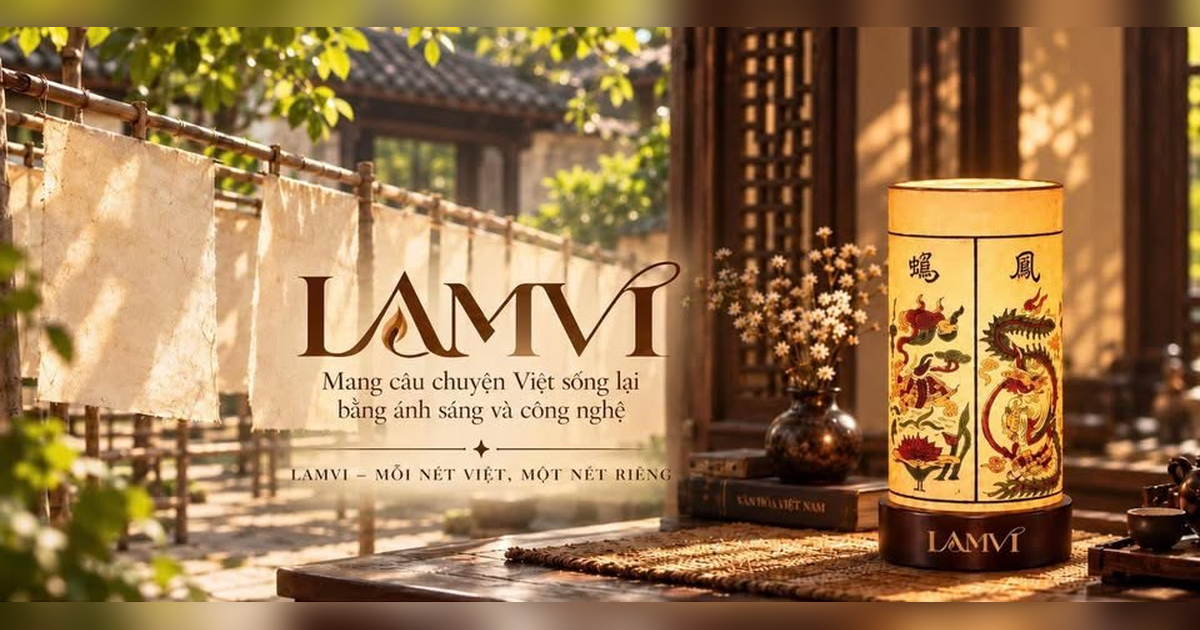
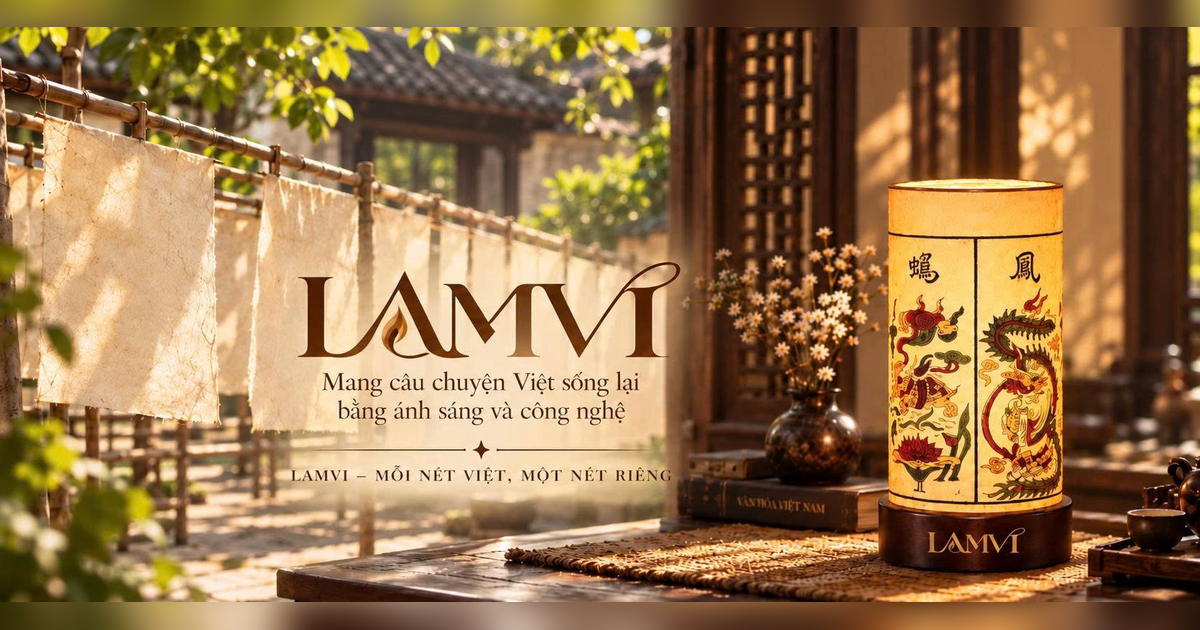
feat: ảnh bìa full HD 1672x800 cho mục Di sản và ảnh chia sẻ (G-116)

diff --git a/server/fanpagePhotos.independent.test.js b/server/fanpagePhotos.independent.test.js
@@ -72,7 +72,7 @@ describe('API với danh mục thật', () => {
 describe('Tệp ảnh', () => {
   it('kích thước đúng, tên tệp không chứa "lamvi"', () => {
     for (const d of ['lamps', 'brand', 'og']) for (const f of readdirSync(join(pub, 'images', d))) expect(f.toLowerCase(), f).not.toContain('lamvi')
-    expect(jpegSize(join(pub, 'images/brand/cover-960x460.jpg'))).toEqual({ w: 960, h: 460 })
+    expect(jpegSize(join(pub, 'images/brand/cover-1672x800.jpg'))).toEqual({ w: 1672, h: 800 })
     expect(jpegSize(join(pub, 'images/brand/logo-round-200.jpg'))).toEqual({ w: 200, h: 200 })
     const og = PNG.sync.read(readFileSync(join(pub, 'images/og/default.png')))
     expect([og.width, og.height]).toEqual([1200, 630])

diff --git a/src/pages/HomePage.jsx b/src/pages/HomePage.jsx
@@ -390,7 +390,7 @@ export default function HomePage() {
         </m.div>
         {/* Ảnh bìa fanpage chính thức (đã cắt bỏ dải thông tin liên hệ chưa xác nhận — G-115) */}
         <m.figure className="story-cover" variants={rise}>
-          <img src="/images/brand/cover-960x460.jpg" alt={t('story.coverAlt')} width={960} height={460} loading="lazy" decoding="async" />
+          <img src="/images/brand/cover-1672x800.jpg" alt={t('story.coverAlt')} width={1672} height={800} loading="lazy" decoding="async" />
         </m.figure>
         <FolkGallery />
       </Reveal>

diff --git a/scripts/gen_og_from_cover.py b/scripts/gen_og_from_cover.py
@@ -1,11 +1,11 @@
 """Dựng ảnh chia sẻ mặc định 1200×630 từ ảnh bìa fanpage chính thức (G-116).
-Chạy: npm run gen:og  (cần python3 + Pillow). Ảnh bìa đã cắt bỏ dải thông tin liên hệ chưa xác nhận (G-115).
+Chạy: npm run gen:og  (cần python3 + Pillow). Ảnh bìa full HD (cover-1672x800.jpg) đã cắt bỏ dải thông tin liên hệ in sẵn (email lệch D-110).
 """
 from pathlib import Path
 from PIL import Image, ImageFilter
 
 root = Path(__file__).resolve().parent.parent
-cover = Image.open(root / "public/images/brand/cover-960x460.jpg").convert("RGB")
+cover = Image.open(root / "public/images/brand/cover-1672x800.jpg").convert("RGB")
 bg = cover.resize((1200, 630), Image.LANCZOS).filter(ImageFilter.GaussianBlur(18))
 fg = cover.resize((1200, 575), Image.LANCZOS)
 bg.paste(fg, (0, (630 - 575) // 2))

diff --git a/docs/ba-spec.md b/docs/ba-spec.md
@@ -2,10 +2,10 @@
 
 | Mục | Giá trị |
 |---|---|
-| Phiên bản | v0.52 (bản nháp) |
+| Phiên bản | v0.53 (bản nháp) |
 | Ngày | 2026-10-20 |
 | Trạng thái | PO đã duyệt toàn bộ `[PROPOSAL]`/`[ASSUMPTION]` của v0.1 (D-41) và toàn bộ P0 còn lại ở v0.19 (D-68…D-77). Còn chờ PO: P1/P2 ở §30 và `[LEGAL]` Q-36 (ảnh tư liệu), I-15 (xoá lịch sử chat); giả định phát sinh gắn `[ASSUMPTION]` |
-| Lịch sử | v0.2 (nhánh `fix/web-copy-ba-spec`): sửa câu chữ web theo §31.3, đợt 1. v0.2 (nhánh `feat/foundation-web`): D-37…D-44, nền tảng (catalog, FAQ, i18n, tài khoản, trang QR lô). v0.3: gộp hai nhánh v0.2, D-45…D-48, admin sản phẩm/FAQ/lô. v0.4: D-49, D-50, SEO (SSR, hreflang, sitemap, JSON-LD). v0.5: D-51…D-54, vai trò IT + dashboard IT (sức khoẻ, số liệu API, bảo trì). v0.6: D-55…D-58, AI Mây (chat, FAQ offline, tour, cấu hình). v0.7: D-59…D-61, giỏ hàng. v0.8: gộp nhánh `feat/folk-art-redesign` (giao diện dân gian cổ + motion, bảng màu, phòng tranh ảnh tư liệu — Q-36 `[LEGAL]`, design rules — §31.4) và `docs/branding-guideline` vào `master`. v0.9: deploy Vercel (T-33), G-35, G-36. v0.10: D-62 — tên web và thương hiệu là LAMVI (nhánh `feat/brand-lamvi`). v0.11: D-63 — bỏ xác nhận email khi đăng ký; G-37…G-39 (nhánh `feat/signup-no-confirm`). v0.12: D-64 — dashboard tài khoản khách dạng tab dọc, phong cách thanh thoát (T-34) (nhánh `feat/account-dashboard`), G-40. v0.13: dashboard bo góc + minh hoạ; tab đơn hàng minh hoạ 4 công đoạn. v0.14: D-65 — dashboard kính mờ, nền mây khói + đèn trời khi vào trang, giao diện tối (nhánh `feat/account-glass`). v0.15: nền dashboard dùng ảnh thật CC0 thay hình tự vẽ. v0.16: D-66 — ảnh nền thật cho trang chủ và các trang công khai; dashboard mobile có thanh điều hướng đáy. v0.17: D-67 — PO duyệt I-14, OpenAI của Mây mặc định bật (nhánh `feat/may-openai-default`). v0.18: câu trả lời Mây là văn bản thuần, không link/URL; G-41 (nhánh `fix/may-links`). v0.19 (nhánh `feat/production-checkout-seo-ga`): PO chốt toàn bộ P0 còn lại → D-68…D-77. Giá niêm yết đã gồm VAT (D-68, thay D-03/D-50); checkout → thanh toán payOS/COD → đơn hàng → huỷ đơn (D-69, D-70, D-73, D-74, D-76); coupon đầy đủ (D-71); Google Analytics 4 không banner cookie (D-72); ảnh sản phẩm trong admin (D-77); SEO mức production (og:image, Organization/WebSite/Breadcrumb, cache CDN); security headers (T-37), chống dò/spam (T-38, G-20), G-18, G-28; admin đơn hàng và coupon. Khoảng trống mới: G-42…G-47. v0.20 (nhánh `feat/admin-ga-realtime`): báo cáo Google Analytics realtime trong admin (`/admin/analytics`), `[ASSUMPTION]` §23.3, G-50. v0.21 (nhánh `feat/auth-redesign-google`): D-78 — thêm đăng nhập/đăng ký bằng Google (OAuth trực tiếp, không dùng provider Google của Supabase); làm lại bố cục đăng nhập/đăng ký/quên/đặt lại mật khẩu; nút đăng xuất ở thanh điều hướng; G-51. v0.22 (nhánh `feat/ui-glass-transitions`): D-79 — bo góc toàn bộ component, kính mờ (glassmorphism) cho thẻ, hiệu ứng chuyển trang (T-45). v0.23 (nhánh `feat/header-glass-backgrounds`): D-80 — header kính mờ, header/footer riêng cho trang auth, nền auth trơn có quầng màu, ảnh phong cảnh phủ mảng navy (T-46). v0.24 (nhánh `feat/auth-photo`): D-81 — ảnh riêng cho trang auth (đèn lụa phản chiếu trên sông, Hội An), không dùng ảnh của landing. v0.25 (nhánh `feat/auth-redesign-v2`): D-82 — thiết kế lại trang auth: sân khấu ảnh toàn màn hình + thẻ kính, viên thuốc chuyển đăng nhập ↔ đăng ký, nút hiện/ẩn mật khẩu. v0.26 (nhánh `feat/cart-collection-may-dashboard`): D-83, D-84 — giỏ hàng thiết kế lại, bộ sưu tập một mạch (bỏ hai tab), huy hiệu + tooltip giỏ hàng trên navbar, dashboard và khung chat Mây thiết kế lại (T-48) v0.27: auth chuẩn production không cần Supabase Pro/Twilio — thư đặt lại mật khẩu do server gửi (Resend/Brevo), refresh token ở cookie HttpOnly, chặn mật khẩu đã lộ; G-17 xử lý, G-52…G-54, Q-39 (nhánh `feat/auth-production`). v0.28: D-85 — giữ D-63, không xác minh email khi đăng ký (chốt Q-39); G-37 là rủi ro được chấp nhận (nhánh `docs/q39-keep-d63`).. v0.29 (nhánh `feat/shop-navbar`): D-86 — trang Cửa hàng `/shop` riêng, mọi nút "xem đèn" dẫn tới đó, nút "Xem thêm" ở bộ sưu tập; thanh điều hướng luôn ghim đầu trang và thu nhỏ 20% dạng viên thuốc khi cuộn (T-52). v0.30 (nhánh `feat/product-detail-v2`): D-87 — trang chi tiết sản phẩm thiết kế lại theo phong cách Cửa hàng (T-53). v0.31 (nhánh `feat/gift-message-admin-users`): D-88…D-90 — lời chúc (chữ, giọng nói, video) và trang QR lời chúc (G-42), quản lý người dùng trong admin gồm khoá/mở khoá và đổi vai trò (G-19), dashboard IT kiểm tra thật Resend (T-54); G-55…G-64. v0.32 (nhánh `docs/glass-auth-header-footer`): header/footer trang auth kính mờ phủ ảnh sân khấu (thuộc D-80, T-55); không có quyết định nghiệp vụ mới. v0.33 (nhánh `feat/order-notifications`): D-91…D-94 — thông báo đơn hàng qua email Resend kèm banner/bố cục thư (Q-24, G-45), quy tắc mật khẩu cơ bản + ô nhập lại mật khẩu mới, "quên mật khẩu" chỉ cho email đã đăng ký, admin/IT đăng nhập vào thẳng `/admin`; G-65…G-67. v0.34 (nhánh `feat/mail-business-footer`): D-95 — thư giao dịch nâng cấp bố cục và chân thư doanh nghiệp chuẩn mực (T-56); G-68 v0.35 (nhánh `feat/may-orders-policy-audit`): D-96…D-98 — bộ sưu tập đèn (đèn lẻ trong bộ mua riêng được), gallery đèn + chăn Đông Hồ có mảnh ghép và phần thưởng cốt truyện, chính sách đổi trả (7 ngày từ DELIVERED); Mây tra đơn (FR-AI-004, G-29), trang Chính sách riêng tư và đổi trả (G-10), audit log cho sản phẩm/FAQ/lô (G-21), rollback đăng ký (G-38), nhật ký bảo trì (G-27); G-69…G-76 v0.36 (nhánh `feat/address-inventory`): D-99, D-100 — địa chỉ giao hàng chọn từ danh mục hành chính 2 cấp mới (tỉnh/thành → phường/xã, G-46), tồn kho theo số lượng từng sản phẩm (chốt Q-07, G-44); G-78…G-83 v0.40 (nhánh `feat/feedback-2026-10-08`): xử lý feedback kiểm thử 08/10 — chống sập (app dự phòng, trang lỗi thương hiệu, tệp tĩnh qua CDN), menu di động, trang Liên hệ, thông tin pháp lý + trang `/terms` `/shipping` `/payment`, chú thích đăng nhập từ checkout; D-101; G-94…G-99; Q-41, Q-42 v0.41 (nhánh `fix/feedback-2026-10-08`): xử lý tiếp feedback kiểm thử 08/10 — lỗi thiếu schema trả 503 + gộp giỏ giữ giỏ local, banner đồng ý cookie + GA Consent Mode v2 (D-102, thay D-72), ẩn payOS khi chưa cấu hình + trạng thái tổng "cần xử lý", thông số sản phẩm, phí ship công khai, thanh mua/đặt hàng cố định mobile, bỏ tour tự bật + gỡ đánh giá chưa xác thực + nội dung hiển thị sẵn (D-103), cache/region/LCP/font, khoá slug + không xoá sản phẩm đã có đơn; D-102, D-103; G-100…G-107; Q-43 v0.42 (nhánh `feat/sync-real-content`): đồng bộ web với tài liệu nhóm (Content Plan, báo cáo đồ án, nội dung tranh Đông Hồ) — D-104: danh mục thật 5 đèn của bộ sưu tập đầu tiên (giá tạm 1.400.000 đ `[ASSUMPTION]`), QR chỉ ở thiệp cảm ơn không khắc trên đèn (thay D-43 một phần), nghệ nhân/quy trình/lookbook/FAQ theo tài liệu nhóm, gỡ số liệu mẫu; bỏ Q-05 (không còn bộ set); G-108…G-114 v0.43 (nhánh `feat/lamp-story-pages`): trang kể chuyện theo từng mẫu đèn (G-108, D-105) — cột `products.story`, tab "Câu chuyện", trang lời chúc hiện câu chuyện trước lời chúc; ảnh/thông tin từ fanpage chính thức (logo làm favicon thay logo Vite; G-115, G-116) v0.52 (nhánh `docs/contact-info-d111`): D-111 — PO xác nhận thông tin liên hệ in trên banner; G-115 xử lý một phần. v0.51 (nhánh `feat/may-mascot`): mascot Mây (7 tư thế) thay hình mây SVG; G-117. v0.50 (nhánh `feat/logo-vector`): logotype vector chuẩn thay logo tròn ở thanh điều hướng (G-116); không có quyết định nghiệp vụ mới. v0.49 (nhánh `feat/price-contact-email`): D-110 — giá 1.499.000 đ, email lamvi6886@gmail.com; G-109 xong, G-115 một phần. v0.48 (nhánh `feat/returns-retention`): D-109 — chốt video đổi trả tối đa 50 MB, lưu 90 ngày sau khi xử lý xong, tự xoá bằng cron (migration `…0023`). v0.47 (nhánh `feat/returns-maintenance-authmenu`): menu di động riêng cho header đăng nhập/đăng ký, giao diện nhật ký bảo trì `/it` (G-27 xong); không có quyết định nghiệp vụ mới. v0.46 (nhánh `feat/collection-page-redesign`): D-108 — thiết kế lại trang bộ sưu tập. v0.45 (nhánh `feat/lamp-cutouts-no-captions`): D-107 — bỏ chú thích nguồn ảnh fanpage; tách nền ảnh đèn / ảnh phủ khung. v0.44 (nhánh `feat/protected-routes-fanpage-images`): D-106 — bảo vệ route phía client (`ProtectedRoute`/`GuestRoute`, §5.2b); đưa ảnh fanpage vào web — logo chính thức thay con dấu chữ, ảnh 5 đèn làm ảnh mặc định, ảnh bìa ở mục Di sản và ảnh chia sẻ (G-116) |
+| Lịch sử | v0.2 (nhánh `fix/web-copy-ba-spec`): sửa câu chữ web theo §31.3, đợt 1. v0.2 (nhánh `feat/foundation-web`): D-37…D-44, nền tảng (catalog, FAQ, i18n, tài khoản, trang QR lô). v0.3: gộp hai nhánh v0.2, D-45…D-48, admin sản phẩm/FAQ/lô. v0.4: D-49, D-50, SEO (SSR, hreflang, sitemap, JSON-LD). v0.5: D-51…D-54, vai trò IT + dashboard IT (sức khoẻ, số liệu API, bảo trì). v0.6: D-55…D-58, AI Mây (chat, FAQ offline, tour, cấu hình). v0.7: D-59…D-61, giỏ hàng. v0.8: gộp nhánh `feat/folk-art-redesign` (giao diện dân gian cổ + motion, bảng màu, phòng tranh ảnh tư liệu — Q-36 `[LEGAL]`, design rules — §31.4) và `docs/branding-guideline` vào `master`. v0.9: deploy Vercel (T-33), G-35, G-36. v0.10: D-62 — tên web và thương hiệu là LAMVI (nhánh `feat/brand-lamvi`). v0.11: D-63 — bỏ xác nhận email khi đăng ký; G-37…G-39 (nhánh `feat/signup-no-confirm`). v0.12: D-64 — dashboard tài khoản khách dạng tab dọc, phong cách thanh thoát (T-34) (nhánh `feat/account-dashboard`), G-40. v0.13: dashboard bo góc + minh hoạ; tab đơn hàng minh hoạ 4 công đoạn. v0.14: D-65 — dashboard kính mờ, nền mây khói + đèn trời khi vào trang, giao diện tối (nhánh `feat/account-glass`). v0.15: nền dashboard dùng ảnh thật CC0 thay hình tự vẽ. v0.16: D-66 — ảnh nền thật cho trang chủ và các trang công khai; dashboard mobile có thanh điều hướng đáy. v0.17: D-67 — PO duyệt I-14, OpenAI của Mây mặc định bật (nhánh `feat/may-openai-default`). v0.18: câu trả lời Mây là văn bản thuần, không link/URL; G-41 (nhánh `fix/may-links`). v0.19 (nhánh `feat/production-checkout-seo-ga`): PO chốt toàn bộ P0 còn lại → D-68…D-77. Giá niêm yết đã gồm VAT (D-68, thay D-03/D-50); checkout → thanh toán payOS/COD → đơn hàng → huỷ đơn (D-69, D-70, D-73, D-74, D-76); coupon đầy đủ (D-71); Google Analytics 4 không banner cookie (D-72); ảnh sản phẩm trong admin (D-77); SEO mức production (og:image, Organization/WebSite/Breadcrumb, cache CDN); security headers (T-37), chống dò/spam (T-38, G-20), G-18, G-28; admin đơn hàng và coupon. Khoảng trống mới: G-42…G-47. v0.20 (nhánh `feat/admin-ga-realtime`): báo cáo Google Analytics realtime trong admin (`/admin/analytics`), `[ASSUMPTION]` §23.3, G-50. v0.21 (nhánh `feat/auth-redesign-google`): D-78 — thêm đăng nhập/đăng ký bằng Google (OAuth trực tiếp, không dùng provider Google của Supabase); làm lại bố cục đăng nhập/đăng ký/quên/đặt lại mật khẩu; nút đăng xuất ở thanh điều hướng; G-51. v0.22 (nhánh `feat/ui-glass-transitions`): D-79 — bo góc toàn bộ component, kính mờ (glassmorphism) cho thẻ, hiệu ứng chuyển trang (T-45). v0.23 (nhánh `feat/header-glass-backgrounds`): D-80 — header kính mờ, header/footer riêng cho trang auth, nền auth trơn có quầng màu, ảnh phong cảnh phủ mảng navy (T-46). v0.24 (nhánh `feat/auth-photo`): D-81 — ảnh riêng cho trang auth (đèn lụa phản chiếu trên sông, Hội An), không dùng ảnh của landing. v0.25 (nhánh `feat/auth-redesign-v2`): D-82 — thiết kế lại trang auth: sân khấu ảnh toàn màn hình + thẻ kính, viên thuốc chuyển đăng nhập ↔ đăng ký, nút hiện/ẩn mật khẩu. v0.26 (nhánh `feat/cart-collection-may-dashboard`): D-83, D-84 — giỏ hàng thiết kế lại, bộ sưu tập một mạch (bỏ hai tab), huy hiệu + tooltip giỏ hàng trên navbar, dashboard và khung chat Mây thiết kế lại (T-48) v0.27: auth chuẩn production không cần Supabase Pro/Twilio — thư đặt lại mật khẩu do server gửi (Resend/Brevo), refresh token ở cookie HttpOnly, chặn mật khẩu đã lộ; G-17 xử lý, G-52…G-54, Q-39 (nhánh `feat/auth-production`). v0.28: D-85 — giữ D-63, không xác minh email khi đăng ký (chốt Q-39); G-37 là rủi ro được chấp nhận (nhánh `docs/q39-keep-d63`).. v0.29 (nhánh `feat/shop-navbar`): D-86 — trang Cửa hàng `/shop` riêng, mọi nút "xem đèn" dẫn tới đó, nút "Xem thêm" ở bộ sưu tập; thanh điều hướng luôn ghim đầu trang và thu nhỏ 20% dạng viên thuốc khi cuộn (T-52). v0.30 (nhánh `feat/product-detail-v2`): D-87 — trang chi tiết sản phẩm thiết kế lại theo phong cách Cửa hàng (T-53). v0.31 (nhánh `feat/gift-message-admin-users`): D-88…D-90 — lời chúc (chữ, giọng nói, video) và trang QR lời chúc (G-42), quản lý người dùng trong admin gồm khoá/mở khoá và đổi vai trò (G-19), dashboard IT kiểm tra thật Resend (T-54); G-55…G-64. v0.32 (nhánh `docs/glass-auth-header-footer`): header/footer trang auth kính mờ phủ ảnh sân khấu (thuộc D-80, T-55); không có quyết định nghiệp vụ mới. v0.33 (nhánh `feat/order-notifications`): D-91…D-94 — thông báo đơn hàng qua email Resend kèm banner/bố cục thư (Q-24, G-45), quy tắc mật khẩu cơ bản + ô nhập lại mật khẩu mới, "quên mật khẩu" chỉ cho email đã đăng ký, admin/IT đăng nhập vào thẳng `/admin`; G-65…G-67. v0.34 (nhánh `feat/mail-business-footer`): D-95 — thư giao dịch nâng cấp bố cục và chân thư doanh nghiệp chuẩn mực (T-56); G-68 v0.35 (nhánh `feat/may-orders-policy-audit`): D-96…D-98 — bộ sưu tập đèn (đèn lẻ trong bộ mua riêng được), gallery đèn + chăn Đông Hồ có mảnh ghép và phần thưởng cốt truyện, chính sách đổi trả (7 ngày từ DELIVERED); Mây tra đơn (FR-AI-004, G-29), trang Chính sách riêng tư và đổi trả (G-10), audit log cho sản phẩm/FAQ/lô (G-21), rollback đăng ký (G-38), nhật ký bảo trì (G-27); G-69…G-76 v0.36 (nhánh `feat/address-inventory`): D-99, D-100 — địa chỉ giao hàng chọn từ danh mục hành chính 2 cấp mới (tỉnh/thành → phường/xã, G-46), tồn kho theo số lượng từng sản phẩm (chốt Q-07, G-44); G-78…G-83 v0.40 (nhánh `feat/feedback-2026-10-08`): xử lý feedback kiểm thử 08/10 — chống sập (app dự phòng, trang lỗi thương hiệu, tệp tĩnh qua CDN), menu di động, trang Liên hệ, thông tin pháp lý + trang `/terms` `/shipping` `/payment`, chú thích đăng nhập từ checkout; D-101; G-94…G-99; Q-41, Q-42 v0.41 (nhánh `fix/feedback-2026-10-08`): xử lý tiếp feedback kiểm thử 08/10 — lỗi thiếu schema trả 503 + gộp giỏ giữ giỏ local, banner đồng ý cookie + GA Consent Mode v2 (D-102, thay D-72), ẩn payOS khi chưa cấu hình + trạng thái tổng "cần xử lý", thông số sản phẩm, phí ship công khai, thanh mua/đặt hàng cố định mobile, bỏ tour tự bật + gỡ đánh giá chưa xác thực + nội dung hiển thị sẵn (D-103), cache/region/LCP/font, khoá slug + không xoá sản phẩm đã có đơn; D-102, D-103; G-100…G-107; Q-43 v0.42 (nhánh `feat/sync-real-content`): đồng bộ web với tài liệu nhóm (Content Plan, báo cáo đồ án, nội dung tranh Đông Hồ) — D-104: danh mục thật 5 đèn của bộ sưu tập đầu tiên (giá tạm 1.400.000 đ `[ASSUMPTION]`), QR chỉ ở thiệp cảm ơn không khắc trên đèn (thay D-43 một phần), nghệ nhân/quy trình/lookbook/FAQ theo tài liệu nhóm, gỡ số liệu mẫu; bỏ Q-05 (không còn bộ set); G-108…G-114 v0.43 (nhánh `feat/lamp-story-pages`): trang kể chuyện theo từng mẫu đèn (G-108, D-105) — cột `products.story`, tab "Câu chuyện", trang lời chúc hiện câu chuyện trước lời chúc; ảnh/thông tin từ fanpage chính thức (logo làm favicon thay logo Vite; G-115, G-116) v0.53 (nhánh `feat/cover-fullhd`): ảnh bìa full HD 1672×800 thay bản 960 px (G-116). v0.52 (nhánh `docs/contact-info-d111`): D-111 — PO xác nhận thông tin liên hệ in trên banner; G-115 xử lý một phần. v0.51 (nhánh `feat/may-mascot`): mascot Mây (7 tư thế) thay hình mây SVG; G-117. v0.50 (nhánh `feat/logo-vector`): logotype vector chuẩn thay logo tròn ở thanh điều hướng (G-116); không có quyết định nghiệp vụ mới. v0.49 (nhánh `feat/price-contact-email`): D-110 — giá 1.499.000 đ, email lamvi6886@gmail.com; G-109 xong, G-115 một phần. v0.48 (nhánh `feat/returns-retention`): D-109 — chốt video đổi trả tối đa 50 MB, lưu 90 ngày sau khi xử lý xong, tự xoá bằng cron (migration `…0023`). v0.47 (nhánh `feat/returns-maintenance-authmenu`): menu di động riêng cho header đăng nhập/đăng ký, giao diện nhật ký bảo trì `/it` (G-27 xong); không có quyết định nghiệp vụ mới. v0.46 (nhánh `feat/collection-page-redesign`): D-108 — thiết kế lại trang bộ sưu tập. v0.45 (nhánh `feat/lamp-cutouts-no-captions`): D-107 — bỏ chú thích nguồn ảnh fanpage; tách nền ảnh đèn / ảnh phủ khung. v0.44 (nhánh `feat/protected-routes-fanpage-images`): D-106 — bảo vệ route phía client (`ProtectedRoute`/`GuestRoute`, §5.2b); đưa ảnh fanpage vào web — logo chính thức thay con dấu chữ, ảnh 5 đèn làm ảnh mặc định, ảnh bìa ở mục Di sản và ảnh chia sẻ (G-116) |
 | Phạm vi | **Chỉ hệ thống web** (storefront, tài khoản, trang QR, AI Mây, admin). Vận hành xưởng, kho, vận chuyển nằm ngoài phạm vi (D-34). |
 
 **Quy ước nhãn**
@@ -1288,7 +1288,7 @@ Cập nhật v0.2. Trạng thái: **Đã xử lý** / **Một phần** / **Còn 
 | G-113 | Câu chuyện từng mẫu + tư liệu ngoài | v0.43: câu chuyện 5 đèn đã vào `products.story` (vi/en/zh, soạn lại từ Content Plan + hai bài của nhóm). Tài liệu "Nội dung tranh Đông Hồ": chỉ hai bài do nhóm viết (Lợn Âm Dương, Tam Dương Khai Thái) được dùng; phần "Tài liệu tham khảo" là trích nguồn ngoài, **không đưa lên web** khi chưa xin phép `[LEGAL]` | Content/Legal | **Một phần** (v0.43) |
 | G-114 | Số liệu Home trước đây là mẫu | Đã gỡ "100+ năm nghề / 12 nghệ nhân / 32 năm / 4.000+ đèn"; thay bằng số kiểm chứng được từ tài liệu nhóm: 5 đèn, 3 chặng hành trình, 1 lời chúc. Testimonials vẫn ẩn (D-103) | Content | **Đã xử lý** (v0.42) |
 | G-115 | Thông tin liên hệ lấy từ banner fanpage chưa xác nhận | Banner ảnh bìa ghi: địa chỉ "Làng Khánh S, Vinhomes Thăng Long, An Khánh, Hà Nội", hotline 0962 254 128, email lamvi6866@gmail.com, website lamvi.com.vn, TikTok @lamvi360, fanpage facebook.com/profile.lamvi. **Phần Giới thiệu của fanpage ghi email lamvi6886@gmail.com** (6886 ≠ 6866) → mâu thuẫn. **Email đã chốt `lamvi6886@gmail.com` (D-110, v0.49)** — đặt `MAIL_SUPPORT_EMAIL` ở Vercel. **v0.52 (D-111)**: PO xác nhận hotline, địa chỉ xưởng, website, TikTok, Facebook — đặt qua biến Vercel. **Còn thiếu** `[LEGAL]`: tên pháp nhân, MST/số ĐKKD, địa chỉ đăng ký, giờ hỗ trợ, thông báo Bộ Công Thương | Business/Legal | **Một phần** (v0.52) |
-| G-116 | Ảnh thương hiệu từ fanpage chính thức | **v0.50**: logotype vector chuẩn (`logotype.svg`, từ PDF nhóm gửi) thay logo tròn ở thanh điều hướng/ngăn kéo/header đăng nhập; logo tròn còn ở favicon, chân trang, khung đăng nhập, tài khoản. **v0.44 đã đưa vào web**: logo tròn 200 px thay con dấu chữ ở header/menu di động/footer/đăng nhập/dashboard (admin giữ nguyên); ảnh bìa (cắt bỏ dải liên hệ chưa xác nhận — G-115) ở mục Di sản trang chủ và dựng ảnh chia sẻ `og/default.png` (`npm run gen:og`); poster 5 đèn (thumbnail 206 px phóng 618 px) làm ảnh mặc định của 5 sản phẩm (`server/domain/photos.js`: ảnh admin tải lên được ưu tiên); **v0.45 (D-107)**: không còn dòng chú thích nguồn dưới ảnh; đèn được tách nền (`*-cutout.webp`) dùng ở hero, lookbook, thẻ sản phẩm/bộ sưu tập để giữ quầng sáng, trang chi tiết dùng ảnh đầy đủ phủ kín khung — hiện ở hero, lookbook, trang sản phẩm, cửa hàng, giỏ, lời chúc, gallery; favicon từ logo. Hạn chế: ảnh nguồn nhỏ nên mềm, poster in sẵn chữ tên đèn, trông như ảnh dựng (không phải ảnh chụp sản phẩm thật) — cần PO xác nhận được dùng làm ảnh sản phẩm và ảnh gốc (G-110). Admin `/admin/products` không hiện ảnh mặc định (chỉ ảnh đã tải lên) | Brand | **Một phần** (v0.43), cập nhật v0.44 `[ASSUMPTION]` |
+| G-116 | Ảnh thương hiệu từ fanpage chính thức | **v0.53**: ảnh bìa mục Di sản và ảnh chia sẻ dùng banner full HD 1672×800 (`cover-1672x800.jpg`, nhóm gửi 21/10; cắt bỏ dải liên hệ), thay bản 960 px. **Ảnh 5 đèn full HD vẫn chưa vào web** (9 ảnh gửi trong khung chat, không có tệp). **v0.50**: logotype vector chuẩn (`logotype.svg`, từ PDF nhóm gửi) thay logo tròn ở thanh điều hướng/ngăn kéo/header đăng nhập; logo tròn còn ở favicon, chân trang, khung đăng nhập, tài khoản. **v0.44 đã đưa vào web**: logo tròn 200 px thay con dấu chữ ở header/menu di động/footer/đăng nhập/dashboard (admin giữ nguyên); ảnh bìa (cắt bỏ dải liên hệ chưa xác nhận — G-115) ở mục Di sản trang chủ và dựng ảnh chia sẻ `og/default.png` (`npm run gen:og`); poster 5 đèn (thumbnail 206 px phóng 618 px) làm ảnh mặc định của 5 sản phẩm (`server/domain/photos.js`: ảnh admin tải lên được ưu tiên); **v0.45 (D-107)**: không còn dòng chú thích nguồn dưới ảnh; đèn được tách nền (`*-cutout.webp`) dùng ở hero, lookbook, thẻ sản phẩm/bộ sưu tập để giữ quầng sáng, trang chi tiết dùng ảnh đầy đủ phủ kín khung — hiện ở hero, lookbook, trang sản phẩm, cửa hàng, giỏ, lời chúc, gallery; favicon từ logo. Hạn chế: ảnh nguồn nhỏ nên mềm, poster in sẵn chữ tên đèn, trông như ảnh dựng (không phải ảnh chụp sản phẩm thật) — cần PO xác nhận được dùng làm ảnh sản phẩm và ảnh gốc (G-110). Admin `/admin/products` không hiện ảnh mặc định (chỉ ảnh đã tải lên) | Brand | **Một phần** (v0.43), cập nhật v0.44 `[ASSUMPTION]` |
 | G-117 | Mascot Mây | Nhóm bàn giao gói `MASCOT` (7 tư thế nền trong suốt, 4 bong bóng thoại và 2 trang tham khảo). Đã dùng làm avatar của nút Mây nổi, khung chat, tour, giỏ hàng và mục QR trang chủ (`public/images/may/`, `MayAvatar pose=`). **Còn thiếu**: tư thế "thinking/loading" (08, file không có trong gói) nên trạng thái chờ/ngủ vẫn là hình SVG cũ; bong bóng thoại chỉ là ảnh tham khảo — chưa dựng lại bằng HTML/CSS; tư thế `paper`/`dongho`/`memory` chưa gắn vào trang nào; gói là asset concept, sản xuất chính thức cần vector hoá | Design | **Một phần** (v0.51) |
 
 ### 31.3 Nội dung web phải sửa (Incorrect)

diff --git a/public/images/brand/CREDITS.md b/public/images/brand/CREDITS.md
@@ -6,8 +6,8 @@ Lấy ngày 2026-10-14 từ **fanpage chính thức của LAMVI** (https://www.f
 |---|---|---|---|
 | `logotype.svg` | `LAMVI_logotype_vector_chuan.pdf` do nhóm LAMVI gửi (2026-10-21), đổi PDF → SVG bằng `pdftocairo -svg`, làm tròn toạ độ 2 chữ số | 180,75×49,5 (vector) | Logotype chuẩn, màu nâu #8A543A. Dùng ở thanh điều hướng (`Wordmark.jsx`); header đăng nhập/đăng ký đổi sang màu kem bằng CSS filter |
 | `logo-round-200.jpg` | Ảnh đại diện của fanpage | 200×200 | Logo tròn nâu–vàng "LV LAMVI — Ánh sáng từ di sản Việt". Độ phân giải thấp; dùng cho favicon, chân trang, khung đăng nhập và tài khoản. Logotype vector đã có (`logotype.svg`), logo tròn vector vẫn chưa có |
-| *(không còn trong `public/`)* `docs/brand-source/cover-960.jpg` | Bài đăng cập nhật ảnh bìa | 960×540 | **Bản gốc để ngoài `public/` vì dải dưới in thông tin liên hệ chưa xác nhận (G-115) — không phục vụ công khai.** Banner "LAMVI — Mang câu chuyện Việt sống lại bằng ánh sáng và công nghệ" kèm dải thông tin liên hệ in sẵn trong ảnh (địa chỉ, hotline, email, website, TikTok) — thông tin này chưa được xác nhận (xem ba-spec G-115) |
-| `cover-960x460.jpg` | Cắt từ `docs/brand-source/cover-960.jpg` (bỏ 80 px dải thông tin liên hệ phía dưới) | 960×460 | Dùng ở mục Di sản trên trang chủ và dựng `og/default.png` |
+| *(không còn trong `public/`)* `docs/brand-source/cover-960.jpg` | Bài đăng cập nhật ảnh bìa | 960×540 | **Bản gốc để ngoài `public/` vì dải dưới in thông tin liên hệ (email lệch D-110) — không phục vụ công khai. Đã được `cover-1672x800.jpg` thay thế; bản 960 chỉ giữ để tham chiếu.** Banner "LAMVI — Mang câu chuyện Việt sống lại bằng ánh sáng và công nghệ" kèm dải thông tin liên hệ in sẵn trong ảnh (địa chỉ, hotline, email, website, TikTok) — thông tin này chưa được xác nhận (xem ba-spec G-115) |
+| `cover-1672x800.jpg` | Cắt từ `docs/brand-source/cover-1672.jpg` (banner full HD nhóm gửi 2026-10-21; bỏ 141 px dải thông tin liên hệ phía dưới — dải đó in email `lamvi6866@` lệch với email chính thức D-110) | 1672×800 | Dùng ở mục Di sản trên trang chủ và dựng `og/default.png`. Thay bản 960×460 lấy từ fanpage |
 
 `../../favicon.png` (64 px, cắt tròn) và `../../apple-touch-icon.png` (180 px) dựng từ `logo-round-200.jpg` thay cho logo mặc định của Vite.
 

diff --git a/docs/knowledge/session-log.md b/docs/knowledge/session-log.md
@@ -1,5 +1,10 @@
 # Nhật ký phiên
 
+## 2026-10-21 (phiên 5) — Ảnh bìa full HD (nhánh `feat/cover-fullhd`)
+
+PO: "đổi ảnh trên web sang các ảnh full hd đã gửi hôm nay". Trên đĩa chỉ có banner 1672×941 (2.jpg); 9 ảnh đèn full HD chỉ có trong khung chat, không có tệp. Đã thay ảnh bìa mục Di sản + dựng lại `og/default.png` từ `cover-1672x800.jpg` (cắt dải liên hệ từ y=803). **Còn lại**: ảnh 5 đèn full HD — cần gửi dạng tệp/zip kèm ghi chú đèn nào.
+
+---
 ## 2026-10-21 (phiên 4) — Xác nhận thông tin liên hệ (nhánh `docs/contact-info-d111`, D-111)
 
 **PO** gửi lại banner làm nguồn thông tin liên hệ. Ghi D-111; email giữ `lamvi6886@` (D-110) dù banner in `6866@`; địa chỉ vào `MAIL_WORKSHOP_ADDRESS` (không phải địa chỉ đăng ký kinh doanh); Facebook dùng URL fanpage thật. Chỉ đổi tài liệu — giá trị đặt ở Vercel. **Còn lại** `[LEGAL]`: pháp nhân, MST, giờ hỗ trợ.
